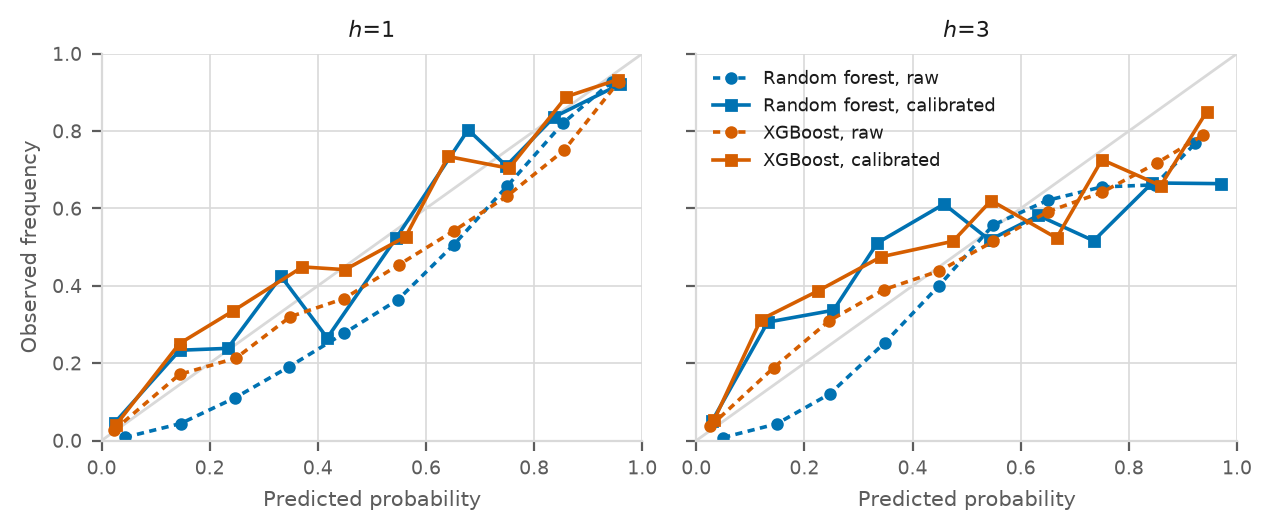
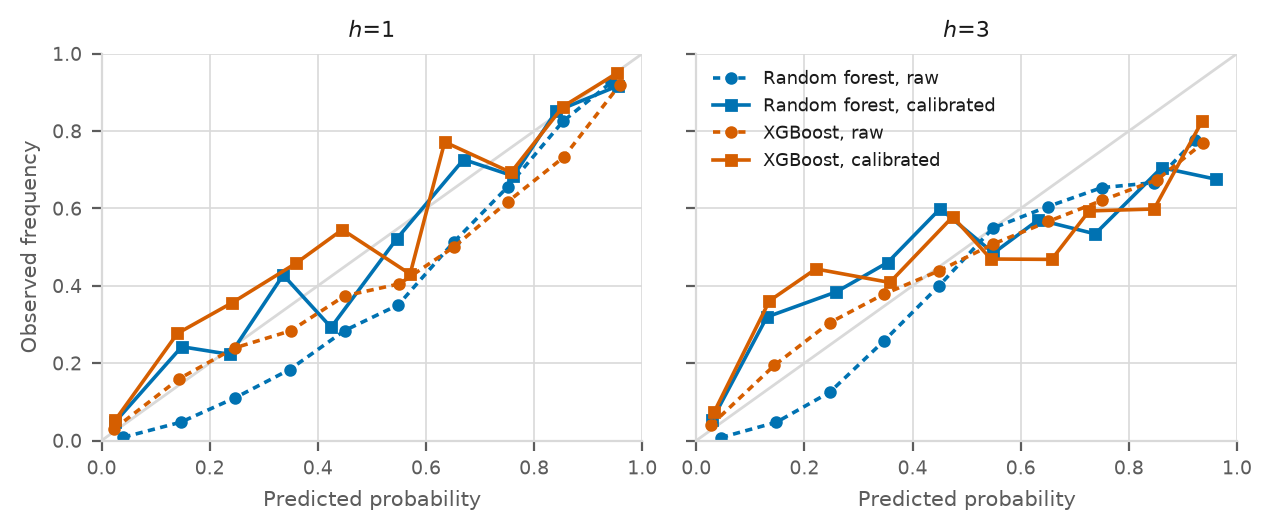
paper: números regenerados com a densidade de 2023
O XGBoost passa a ter também a melhor AUPRC (0,820 contra 0,819 do
LightGBM): a 6.1 diz "(XGBoost)". Na ablação, cinco famílias têm valor
levemente negativo, não só o saneamento: a 6.6 diz isso. As duas frases
ganham trava no paper_outputs (70 travas).

diff --git a/src/paper/paper_outputs.py b/src/paper/paper_outputs.py
@@ -207,8 +207,8 @@ claim(trees.lift.round(1).nunique() == 1, "the three tree models have the same l
 m("nTreeLift", f"{trees.lift.iloc[0]:.1f}")
 m("nRateIncFrac", f"{rate:.3f}")
 claim(t3.auroc.idxmax() == "XGBoost", "XGBoost has the best pooled AUROC")
-claim(t3.loc[["Logistic regression", "Random Forest", "XGBoost", "LightGBM"], "auprc"].idxmax() == "LightGBM",
-      "LightGBM has the best pooled AUPRC (the best model of 6.1)")
+claim(t3.loc[["Logistic regression", "Random Forest", "XGBoost", "LightGBM"], "auprc"].idxmax() == "XGBoost",
+      "XGBoost also has the best pooled AUPRC (the best model of 6.1)")
 best_auprc = t3.loc[["Logistic regression", "Random Forest", "XGBoost", "LightGBM"], "auprc"].max()
 for key, lbl in (("Pers", "Persistence (month t)"), ("PersRt", "Persistence (real time)")):
     m(f"n{key}Auroc", f3(t3.loc[lbl, "auroc"]))
@@ -696,7 +696,9 @@ mean_abl = abl.groupby("group")["delta_auprc"].mean()
 m("nAblTarget", f3(mean_abl["target history"]))
 others = mean_abl.drop("target history")
 m("nAblOtherMax", f3(others.max()))
-claim(mean_abl["sanitation"] < 0, "sanitation has a negative ablation value")
+claim(mean_abl["sanitation"] < 0 and (others < 0).sum() == 5,
+      "five families, sanitation among them, have a negative ablation value")
+claim(others.min() > -0.005, "the negative ablation values are slight")
 m("nAblWeather", f3(mean_abl["climate"]))
 shap_mean = shap.groupby(["definition", "group"])["shap_share"].mean().groupby("group").mean()
 m("nShapWeather", pct(shap_mean["climate"]))
